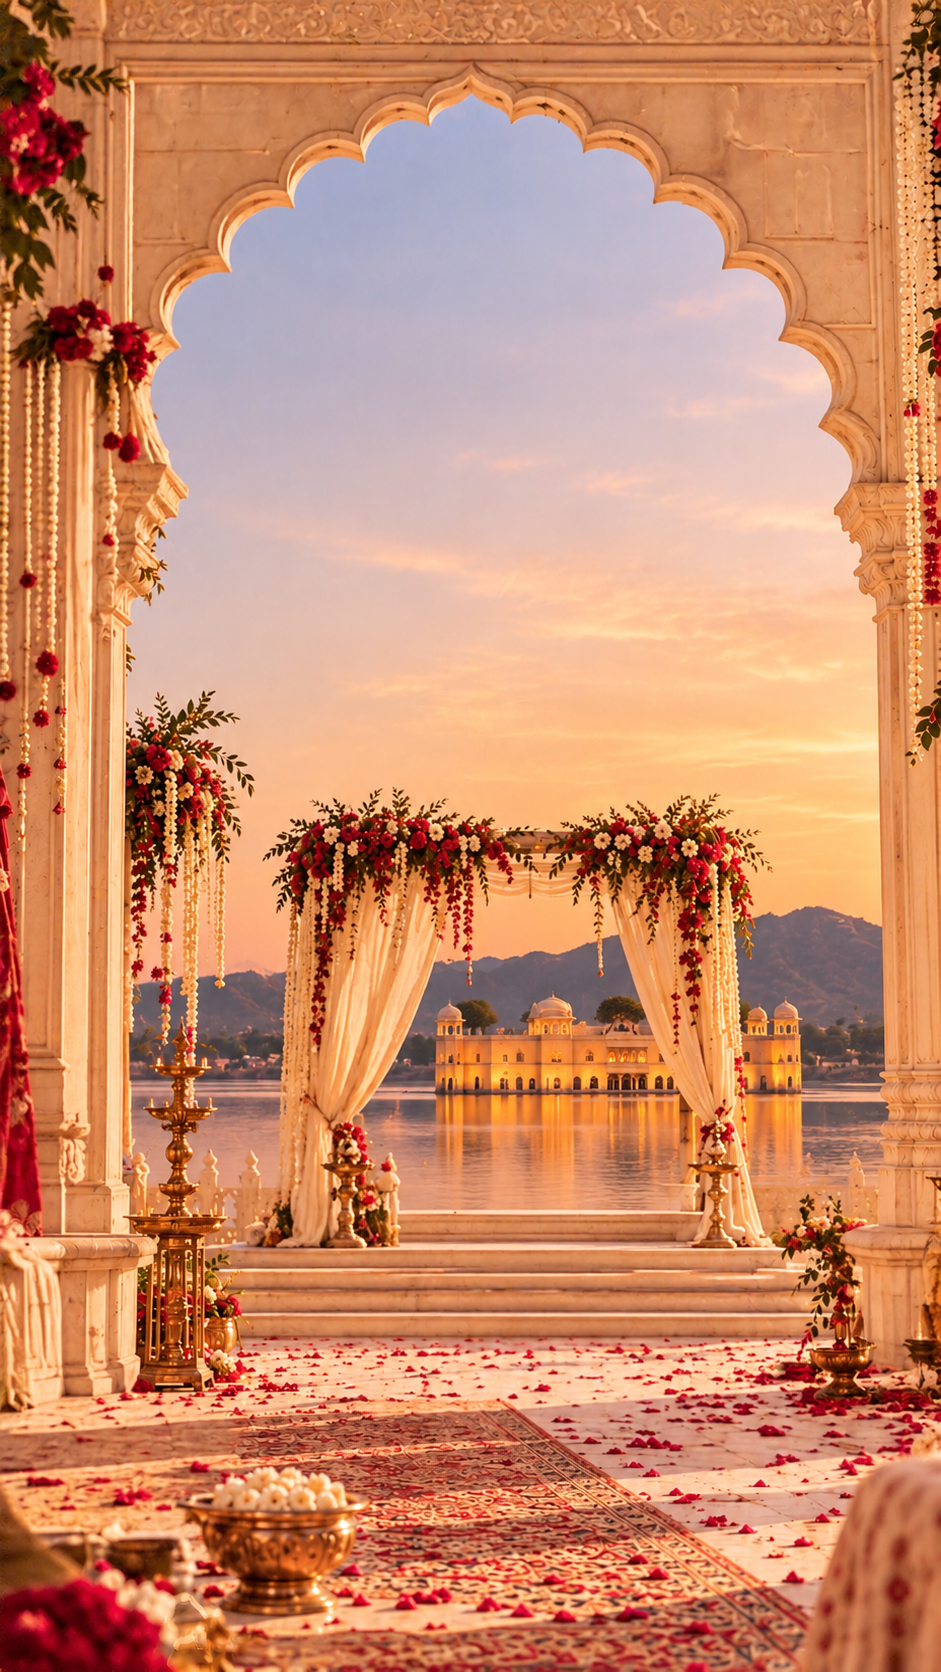
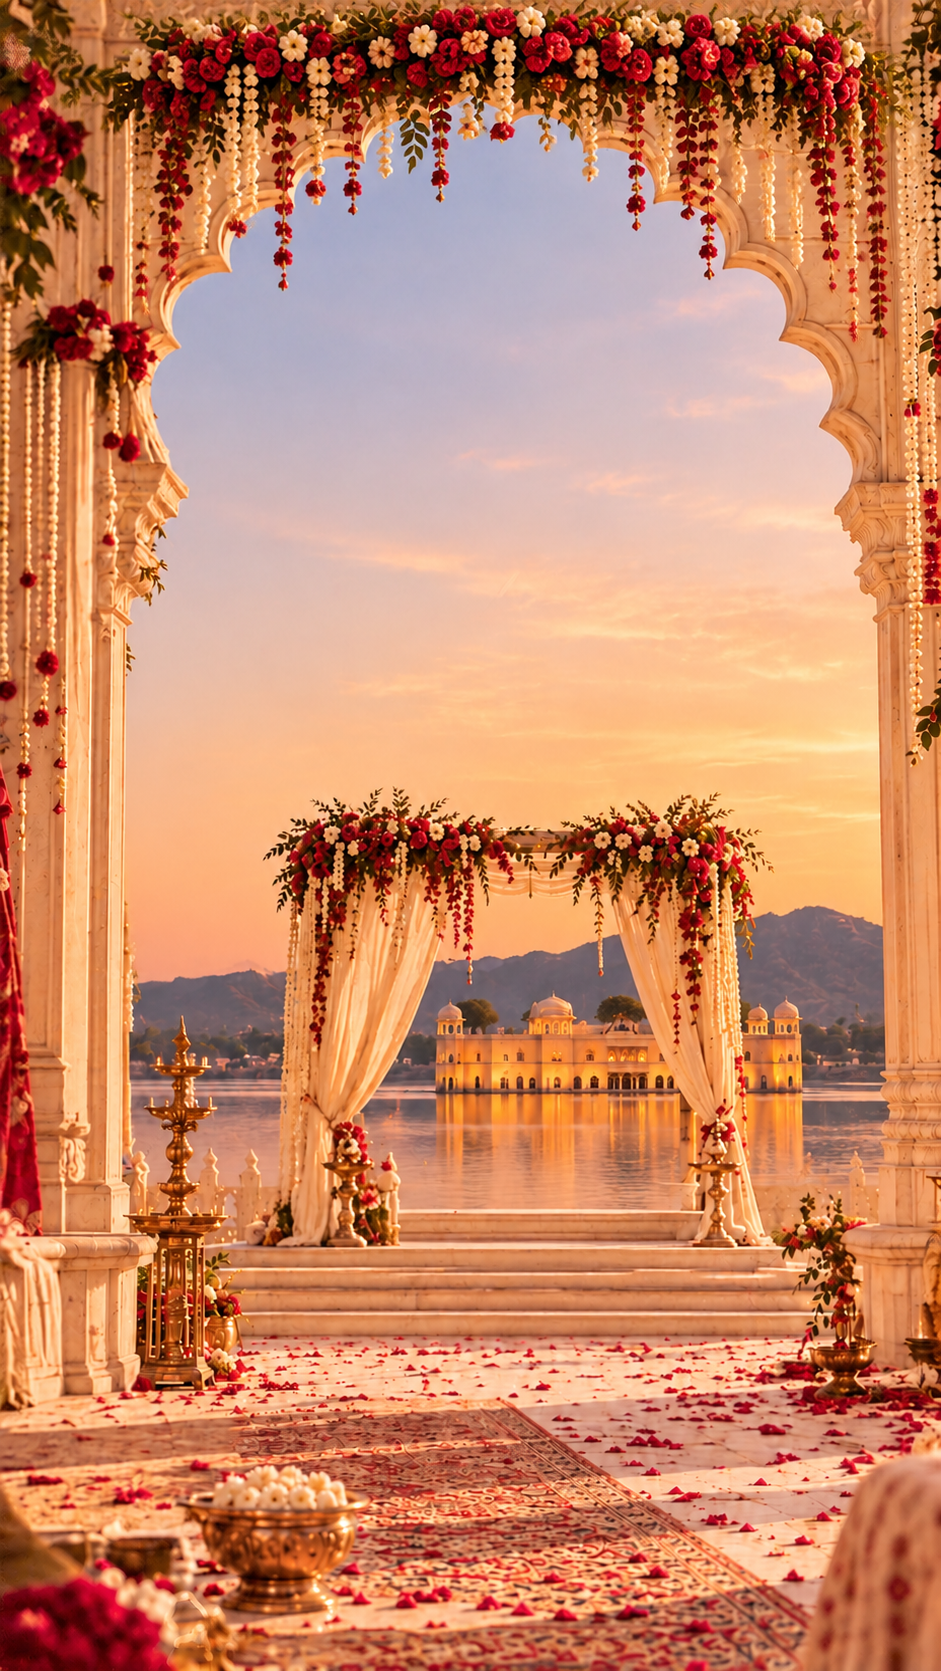
Fix invitation layout and floral overlay

diff --git a/website/index.html b/website/index.html
@@ -63,4 +63,4 @@
 #palace-door-intro.is-opening .palace-door-right{transform:translateX(105%)}
 @media(max-width:600px){#palace-door-intro .palace-arch{width:100vw}}
 @media(prefers-reduced-motion:reduce){#palace-door-intro{display:none!important}}
-</style><div id="palace-door-intro" data-palace-door-intro aria-hidden="true"><div class="palace-arch"><div class="palace-door palace-door-left"></div><div class="palace-door palace-door-right"></div></div></div><script data-palace-door-intro>(()=>{const overlay=document.getElementById("palace-door-intro"),release=()=>window.__palaceReleaseSiteMotion?window.__palaceReleaseSiteMotion():document.documentElement.classList.remove("palace-site-staged");if(!overlay||window.matchMedia("(prefers-reduced-motion: reduce)").matches){release();if(overlay)overlay.remove();return}const open=()=>{let done=false;const reveal=()=>{if(done)return;done=true;release()};overlay.addEventListener("transitionend",e=>{if(e.target===overlay&&e.propertyName==="opacity")reveal()});setTimeout(()=>overlay.classList.add("is-opening"),120);setTimeout(reveal,2900);setTimeout(()=>{reveal();overlay.remove()},3100)};if(document.readyState==="complete")open();else window.addEventListener("load",open,{once:true})})();</script><style data-compact-address-free-venue-buttons>#LBbn9HcFS4tXgzLD [data-kiran-map-button],#LBQb43bzys50V7rq [data-shri-date-map-button]{width:200px!important;height:auto!important;min-height:42px!important;box-sizing:border-box!important;padding:6px 9px!important;gap:7px!important;border-radius:13px!important}#LBbn9HcFS4tXgzLD [data-kiran-map-button]>[data-card-copy],#LBQb43bzys50V7rq [data-shri-date-map-button]>[data-card-copy]{gap:0!important}#LBbn9HcFS4tXgzLD [data-card-address],#LBQb43bzys50V7rq [data-card-address]{display:none!important}#LBbn9HcFS4tXgzLD [data-kiran-map-button]>[data-card-arrow],#LBQb43bzys50V7rq [data-shri-date-map-button]>[data-card-arrow]{width:18px!important;height:18px!important;flex-basis:18px!important}@media(max-width:600px){#LBbn9HcFS4tXgzLD [data-kiran-map-button],#LBQb43bzys50V7rq [data-shri-date-map-button]{width:min(176px,58vw)!important;min-height:38px!important;padding:5px 8px!important;gap:6px!important}}</style><script data-remove-venue-address-content>(()=>{const strip=()=>document.querySelectorAll("#LBbn9HcFS4tXgzLD [data-card-address],#LBQb43bzys50V7rq [data-card-address]").forEach(n=>n.remove());new MutationObserver(strip).observe(document.documentElement,{childList:true,subtree:true});strip()})();</script><style data-stable-final-position-nudges>#LBnpHkgfd86rfnQL{translate:0 3px!important}#LBbn9HcFS4tXgzLD [data-kiran-map-button]{top:calc(50% + 12px)!important}#LBQb43bzys50V7rq [data-shri-date-map-button]{top:calc(50% + 9px)!important}</style><style data-invitation-scroll-hint-css>#invitation-scroll-hint{position:fixed;right:18px;bottom:max(18px,env(safe-area-inset-bottom));z-index:2147483646;width:48px;height:48px;padding:0;border:1px solid rgba(249,229,192,.82);border-radius:50%;display:grid;place-items:center;background:linear-gradient(145deg,#a30025,#72001b);color:#fff1d9;box-shadow:0 5px 18px rgba(44,0,12,.32),inset 0 1px 0 rgba(255,255,255,.2);cursor:pointer;touch-action:manipulation;-webkit-tap-highlight-color:transparent;transition:opacity .2s ease,transform .2s ease,box-shadow .2s ease}#invitation-scroll-hint:hover{transform:translateY(-2px);box-shadow:0 8px 22px rgba(44,0,12,.4),inset 0 1px 0 rgba(255,255,255,.2)}#invitation-scroll-hint:focus-visible{outline:3px solid #f2d19b;outline-offset:3px}#invitation-scroll-hint svg{width:22px;height:22px;animation:invitation-scroll-nudge 1.25s ease-in-out infinite}@keyframes invitation-scroll-nudge{0%,100%{transform:translateY(-2px)}50%{transform:translateY(3px)}}#invitation-scroll-hint[hidden]{display:none!important}@media(max-width:600px){#invitation-scroll-hint{right:14px;bottom:max(16px,env(safe-area-inset-bottom));width:46px;height:46px}}</style><button id="invitation-scroll-hint" type="button" aria-label="Scroll down to continue" title="Scroll down to continue" hidden><svg viewBox="0 0 24 24" fill="none" aria-hidden="true"><path d="M5 9l7 7 7-7" stroke="currentColor" stroke-width="2.2" stroke-linecap="round" stroke-linejoin="round"/></svg></button><script data-invitation-scroll-hint>(()=>{const button=document.getElementById("invitation-scroll-hint");if(!button)return;let target=null,frame=0;const range=el=>Math.max(0,el.scrollHeight-el.clientHeight);const findTarget=()=>{const root=document.scrollingElement||document.documentElement;if(range(root)>8)return root;let best=null,bestRange=8;for(const el of document.querySelectorAll("body *")){if(el===button||button.contains(el))continue;const n=range(el);if(n<=bestRange)continue;const oy=getComputedStyle(el).overflowY;if(oy==="auto"||oy==="scroll"||oy==="hidden"){best=el;bestRange=n}}return best||root};const current=el=>el===document.scrollingElement||el===document.documentElement||el===document.body?(window.scrollY||el.scrollTop):el.scrollTop;const update=()=>{frame=0;if(!target||!target.isConnected)target=findTarget();const max=range(target),pos=current(target);button.hidden=max<=8||pos>=max-12};const schedule=()=>{if(!frame)frame=requestAnimationFrame(update)};button.addEventListener("click",()=>{target=findTarget();const max=range(target),pos=current(target),step=Math.max(240,(target.clientHeight||window.innerHeight)*.78),next=Math.min(max,pos+step);if(target===document.scrollingElement||target===document.documentElement||target===document.body)window.scrollTo({top:next,behavior:"smooth"});else target.scrollTo({top:next,behavior:"smooth"});schedule()});document.addEventListener("scroll",schedule,{capture:true,passive:true});window.addEventListener("resize",()=>{target=findTarget();schedule()},{passive:true});new MutationObserver(()=>{target=findTarget();schedule()}).observe(document.documentElement,{childList:true,subtree:true});window.addEventListener("load",()=>{target=findTarget();schedule()},{once:true});target=findTarget();schedule()})();</script><style data-match-sangeet-font-to-lagan>#LBG9d6l37pbmtjzw p,#LBG9d6l37pbmtjzw p span{font-family:YAFcfkb7jcU_0,auto!important;color:rgb(95,18,18)!important;font-weight:700!important;font-style:normal!important;line-height:32px!important;letter-spacing:0!important;text-transform:none!important;font-size:18px!important}</style><style data-match-haldi-font-to-lagan>#LBtSjv01yjYt1BFc p,#LBtSjv01yjYt1BFc p span{font-family:YAFcfkb7jcU_0,auto!important;color:rgb(95,18,18)!important;font-weight:400!important;font-style:normal!important;line-height:32px!important;letter-spacing:0!important;text-transform:none!important}</style><style data-tighten-event-word-spacing>#LBtSjv01yjYt1BFc p,#LBtSjv01yjYt1BFc p span,#LBG9d6l37pbmtjzw p,#LBG9d6l37pbmtjzw p span{word-spacing:-0.08em!important}</style><style data-compress-canvas-word-space> #LBtSjv01yjYt1BFc span.a_GcMg.zV8YKg,#LBG9d6l37pbmtjzw span.a_GcMg.zV8YKg{display:inline-block!important;width:.12em!important;min-width:0!important;margin-inline-end:0!important}</style><style data-remove-empty-element-LBvx5bnbGglMwK1T>#LBvx5bnbGglMwK1T{display:none!important}</style><style data-copy-baraat-typography-to-headings>#LBG9d6l37pbmtjzw p,#LBG9d6l37pbmtjzw p span,#LBtSjv01yjYt1BFc p,#LBtSjv01yjYt1BFc p span{font-family:YAFcfkb7jcU_0,auto!important;color:rgb(95,18,18)!important;font-weight:400!important;font-style:normal!important;line-height:22px!important;letter-spacing:0!important;text-transform:none!important;white-space:pre-line!important;font-size:20px!important}</style><script data-copy-baraat-font-and-linebreak>(()=>{const targets=[{id:"LBG9d6l37pbmtjzw",html:"Sangeet &amp;<br>Reception",label:"Sangeet & Reception"},{id:"LBtSjv01yjYt1BFc",html:"Haldi<br>Carnival",label:"Haldi Carnival"}];const apply=()=>{for(const t of targets){const box=document.getElementById(t.id),p=box&&box.querySelector("p");if(!p)continue;if(p.innerHTML!==t.html)p.innerHTML=t.html;if(p.getAttribute("aria-label")!==t.label)p.setAttribute("aria-label",t.label)}};new MutationObserver(apply).observe(document.documentElement,{childList:true,subtree:true,characterData:true});window.addEventListener("load",apply);apply()})();</script></body></html>
+</style><div id="palace-door-intro" data-palace-door-intro aria-hidden="true"><div class="palace-arch"><div class="palace-door palace-door-left"></div><div class="palace-door palace-door-right"></div></div></div><script data-palace-door-intro>(()=>{const overlay=document.getElementById("palace-door-intro"),release=()=>window.__palaceReleaseSiteMotion?window.__palaceReleaseSiteMotion():document.documentElement.classList.remove("palace-site-staged");if(!overlay||window.matchMedia("(prefers-reduced-motion: reduce)").matches){release();if(overlay)overlay.remove();return}const open=()=>{let done=false;const reveal=()=>{if(done)return;done=true;release()};overlay.addEventListener("transitionend",e=>{if(e.target===overlay&&e.propertyName==="opacity")reveal()});setTimeout(()=>overlay.classList.add("is-opening"),120);setTimeout(reveal,2900);setTimeout(()=>{reveal();overlay.remove()},3100)};if(document.readyState==="complete")open();else window.addEventListener("load",open,{once:true})})();</script><style data-compact-address-free-venue-buttons>#LBbn9HcFS4tXgzLD [data-kiran-map-button],#LBQb43bzys50V7rq [data-shri-date-map-button]{width:200px!important;height:auto!important;min-height:42px!important;box-sizing:border-box!important;padding:6px 9px!important;gap:7px!important;border-radius:13px!important}#LBbn9HcFS4tXgzLD [data-kiran-map-button]>[data-card-copy],#LBQb43bzys50V7rq [data-shri-date-map-button]>[data-card-copy]{gap:0!important}#LBbn9HcFS4tXgzLD [data-card-address],#LBQb43bzys50V7rq [data-card-address]{display:none!important}#LBbn9HcFS4tXgzLD [data-kiran-map-button]>[data-card-arrow],#LBQb43bzys50V7rq [data-shri-date-map-button]>[data-card-arrow]{width:18px!important;height:18px!important;flex-basis:18px!important}@media(max-width:600px){#LBbn9HcFS4tXgzLD [data-kiran-map-button],#LBQb43bzys50V7rq [data-shri-date-map-button]{width:min(176px,58vw)!important;min-height:38px!important;padding:5px 8px!important;gap:6px!important}}</style><script data-remove-venue-address-content>(()=>{const strip=()=>document.querySelectorAll("#LBbn9HcFS4tXgzLD [data-card-address],#LBQb43bzys50V7rq [data-card-address]").forEach(n=>n.remove());new MutationObserver(strip).observe(document.documentElement,{childList:true,subtree:true});strip()})();</script><style data-stable-final-position-nudges>#LBnpHkgfd86rfnQL{translate:0 3px!important}#LBbn9HcFS4tXgzLD [data-kiran-map-button]{top:calc(50% + 12px)!important}#LBQb43bzys50V7rq [data-shri-date-map-button]{top:calc(50% + 9px)!important}</style><style data-invitation-scroll-hint-css>#invitation-scroll-hint{position:fixed;right:18px;bottom:max(18px,env(safe-area-inset-bottom));z-index:2147483646;width:48px;height:48px;padding:0;border:1px solid rgba(249,229,192,.82);border-radius:50%;display:grid;place-items:center;background:linear-gradient(145deg,#a30025,#72001b);color:#fff1d9;box-shadow:0 5px 18px rgba(44,0,12,.32),inset 0 1px 0 rgba(255,255,255,.2);cursor:pointer;touch-action:manipulation;-webkit-tap-highlight-color:transparent;transition:opacity .2s ease,transform .2s ease,box-shadow .2s ease}#invitation-scroll-hint:hover{transform:translateY(-2px);box-shadow:0 8px 22px rgba(44,0,12,.4),inset 0 1px 0 rgba(255,255,255,.2)}#invitation-scroll-hint:focus-visible{outline:3px solid #f2d19b;outline-offset:3px}#invitation-scroll-hint svg{width:22px;height:22px;animation:invitation-scroll-nudge 1.25s ease-in-out infinite}@keyframes invitation-scroll-nudge{0%,100%{transform:translateY(-2px)}50%{transform:translateY(3px)}}#invitation-scroll-hint[hidden]{display:none!important}@media(max-width:600px){#invitation-scroll-hint{right:14px;bottom:max(16px,env(safe-area-inset-bottom));width:46px;height:46px}}</style><button id="invitation-scroll-hint" type="button" aria-label="Scroll down to continue" title="Scroll down to continue" hidden><svg viewBox="0 0 24 24" fill="none" aria-hidden="true"><path d="M5 9l7 7 7-7" stroke="currentColor" stroke-width="2.2" stroke-linecap="round" stroke-linejoin="round"/></svg></button><script data-invitation-scroll-hint>(()=>{const button=document.getElementById("invitation-scroll-hint");if(!button)return;let target=null,frame=0;const range=el=>Math.max(0,el.scrollHeight-el.clientHeight);const findTarget=()=>{const root=document.scrollingElement||document.documentElement;if(range(root)>8)return root;let best=null,bestRange=8;for(const el of document.querySelectorAll("body *")){if(el===button||button.contains(el))continue;const n=range(el);if(n<=bestRange)continue;const oy=getComputedStyle(el).overflowY;if(oy==="auto"||oy==="scroll"||oy==="hidden"){best=el;bestRange=n}}return best||root};const current=el=>el===document.scrollingElement||el===document.documentElement||el===document.body?(window.scrollY||el.scrollTop):el.scrollTop;const update=()=>{frame=0;if(!target||!target.isConnected)target=findTarget();const max=range(target),pos=current(target);button.hidden=max<=8||pos>=max-12};const schedule=()=>{if(!frame)frame=requestAnimationFrame(update)};button.addEventListener("click",()=>{target=findTarget();const max=range(target),pos=current(target),step=Math.max(240,(target.clientHeight||window.innerHeight)*.78),next=Math.min(max,pos+step);if(target===document.scrollingElement||target===document.documentElement||target===document.body)window.scrollTo({top:next,behavior:"smooth"});else target.scrollTo({top:next,behavior:"smooth"});schedule()});document.addEventListener("scroll",schedule,{capture:true,passive:true});window.addEventListener("resize",()=>{target=findTarget();schedule()},{passive:true});new MutationObserver(()=>{target=findTarget();schedule()}).observe(document.documentElement,{childList:true,subtree:true});window.addEventListener("load",()=>{target=findTarget();schedule()},{once:true});target=findTarget();schedule()})();</script><style data-match-sangeet-font-to-lagan>#LBG9d6l37pbmtjzw p,#LBG9d6l37pbmtjzw p span{font-family:YAFcfkb7jcU_0,auto!important;color:rgb(95,18,18)!important;font-weight:700!important;font-style:normal!important;line-height:32px!important;letter-spacing:0!important;text-transform:none!important;font-size:18px!important}</style><style data-match-haldi-font-to-lagan>#LBtSjv01yjYt1BFc p,#LBtSjv01yjYt1BFc p span{font-family:YAFcfkb7jcU_0,auto!important;color:rgb(95,18,18)!important;font-weight:400!important;font-style:normal!important;line-height:32px!important;letter-spacing:0!important;text-transform:none!important}</style><style data-tighten-event-word-spacing>#LBtSjv01yjYt1BFc p,#LBtSjv01yjYt1BFc p span,#LBG9d6l37pbmtjzw p,#LBG9d6l37pbmtjzw p span{word-spacing:-0.08em!important}</style><style data-compress-canvas-word-space> #LBtSjv01yjYt1BFc span.a_GcMg.zV8YKg,#LBG9d6l37pbmtjzw span.a_GcMg.zV8YKg{display:inline-block!important;width:.12em!important;min-width:0!important;margin-inline-end:0!important}</style><style data-remove-empty-element-LBvx5bnbGglMwK1T>#LBvx5bnbGglMwK1T{display:none!important}</style><style data-copy-baraat-typography-to-headings>#LBG9d6l37pbmtjzw p,#LBG9d6l37pbmtjzw p span,#LBtSjv01yjYt1BFc p,#LBtSjv01yjYt1BFc p span{font-family:YAFcfkb7jcU_0,auto!important;color:rgb(95,18,18)!important;font-weight:400!important;font-style:normal!important;line-height:22px!important;letter-spacing:0!important;text-transform:none!important;white-space:pre-line!important;font-size:20px!important}</style><script data-copy-baraat-font-and-linebreak>(()=>{const targets=[{id:"LBG9d6l37pbmtjzw",html:"Sangeet &amp;<br>Reception",label:"Sangeet & Reception"},{id:"LBtSjv01yjYt1BFc",html:"Haldi<br>Carnival",label:"Haldi Carnival"}];const apply=()=>{for(const t of targets){const box=document.getElementById(t.id),p=box&&box.querySelector("p");if(!p)continue;if(p.innerHTML!==t.html)p.innerHTML=t.html;if(p.getAttribute("aria-label")!==t.label)p.setAttribute("aria-label",t.label)}};new MutationObserver(apply).observe(document.documentElement,{childList:true,subtree:true,characterData:true});window.addEventListener("load",apply);apply()})();</script><style data-remove-floral-overlay-LBs1WyvCfth5xP0M>#LBs1WyvCfth5xP0M,img[src*="acaa08dace579b06b83c083f995b04b2.png"]{display:none!important}</style></body></html>
